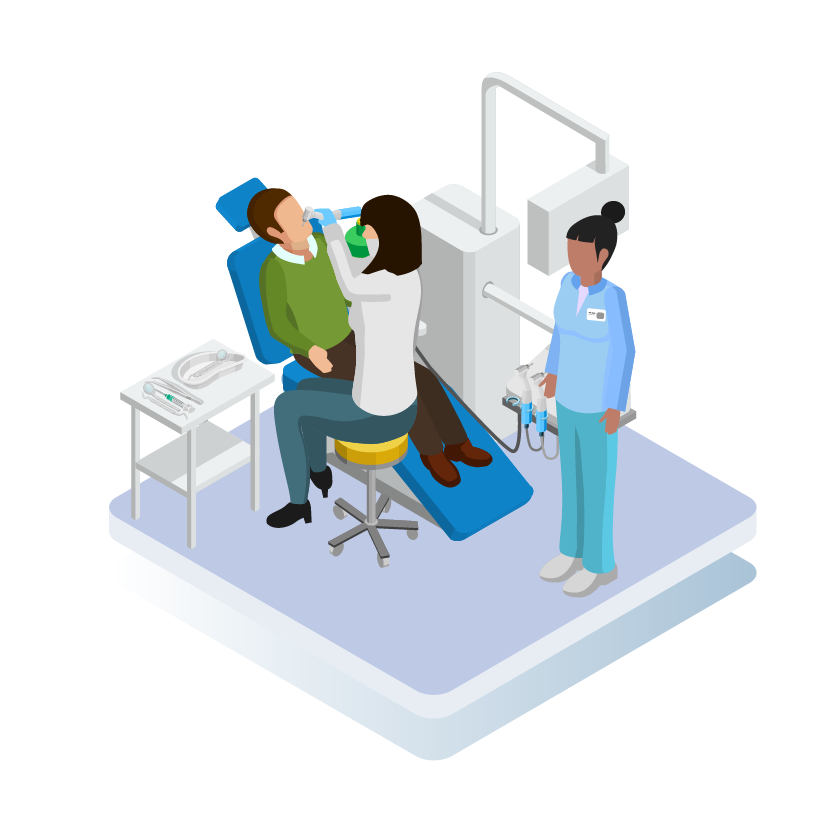
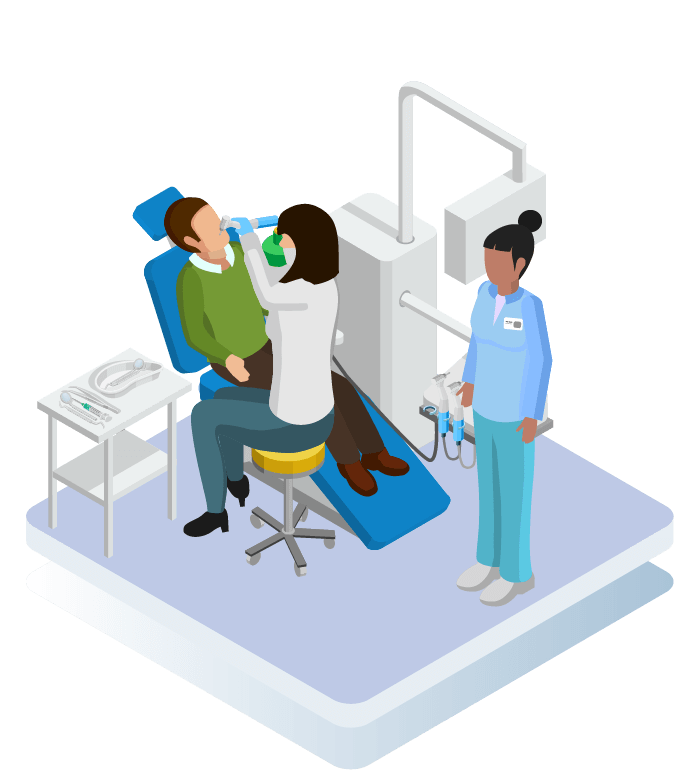
Adjusted image sizes

Changed region(s): [[0.03, 0.0923, 0.96, 0.9846]]

diff --git a/index.css b/index.css
@@ -232,7 +232,7 @@ section {
   }
   .how-can-i-help .job .job-graphic {
     max-width: initial;
-    width: 100%;
+    width: 90%;
   }
   .how-can-i-help .job.down .job-graphic {
     z-index: 1;
